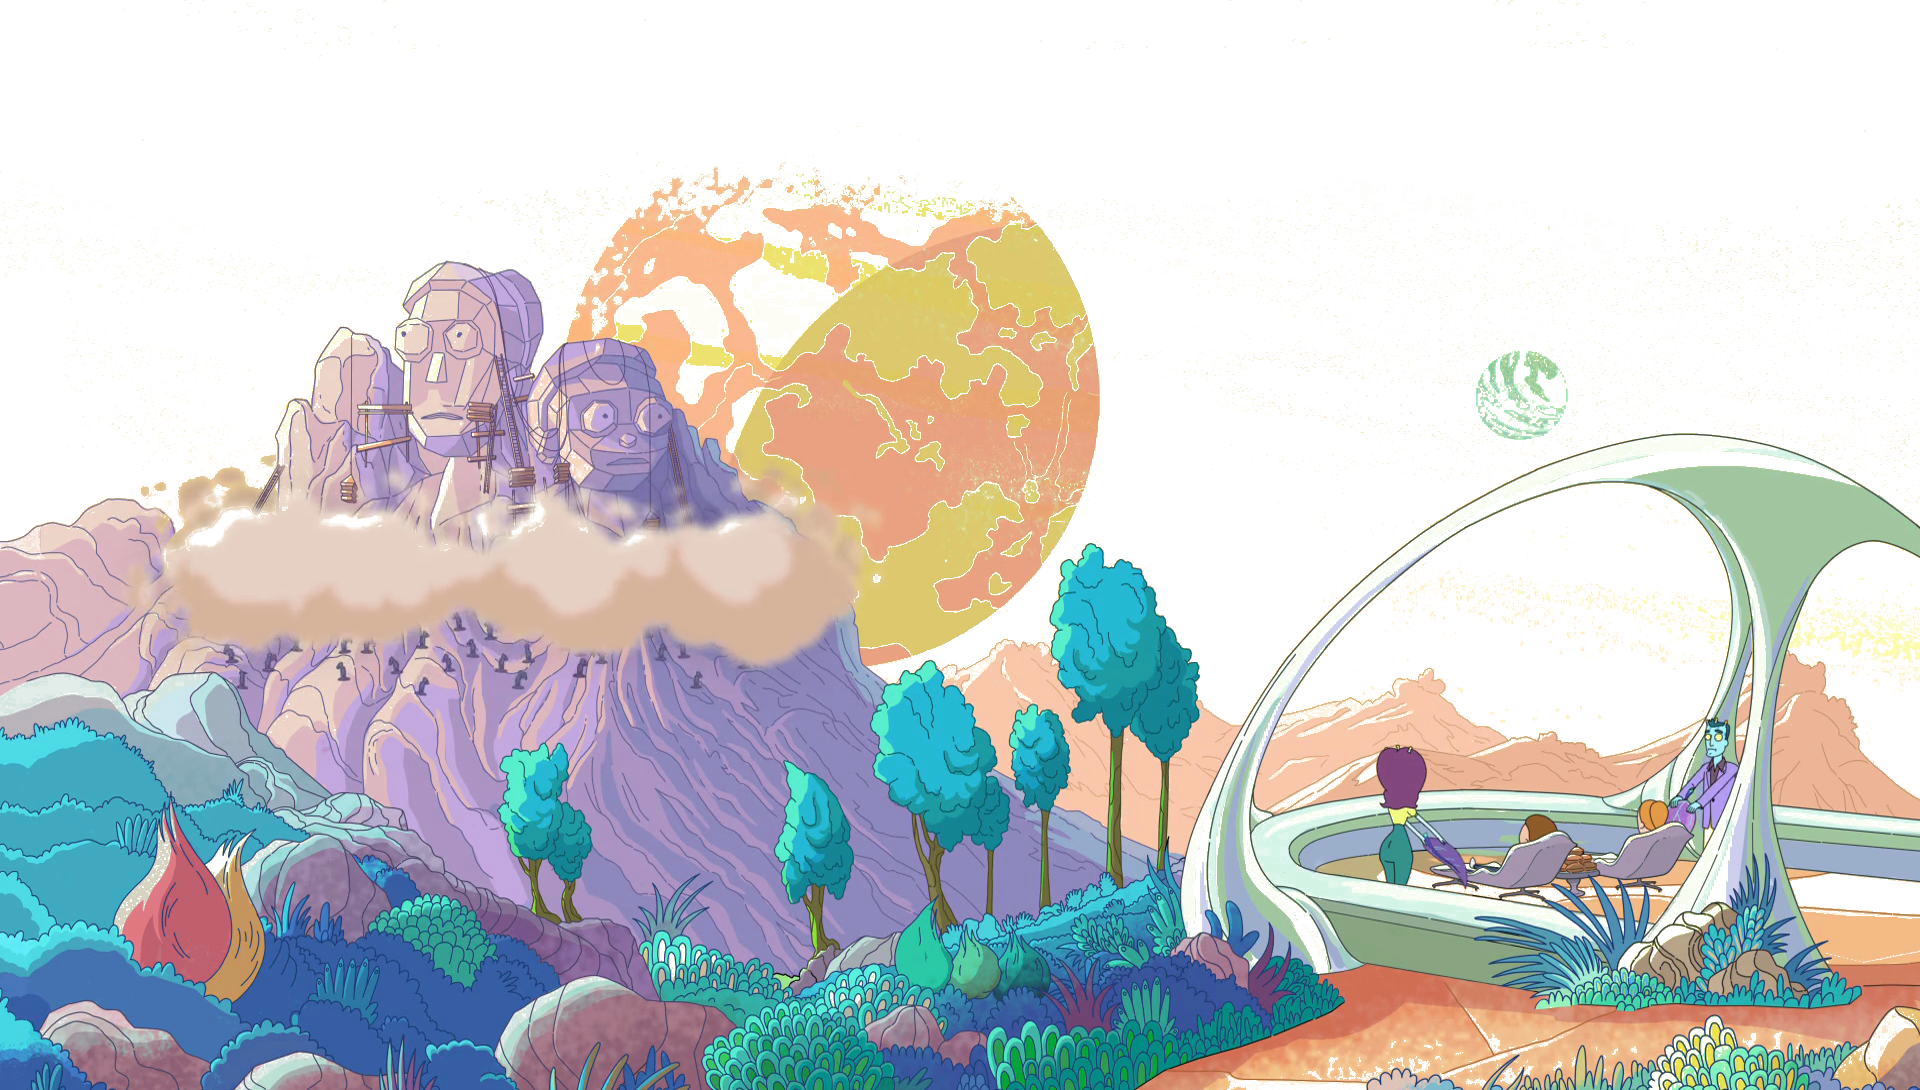
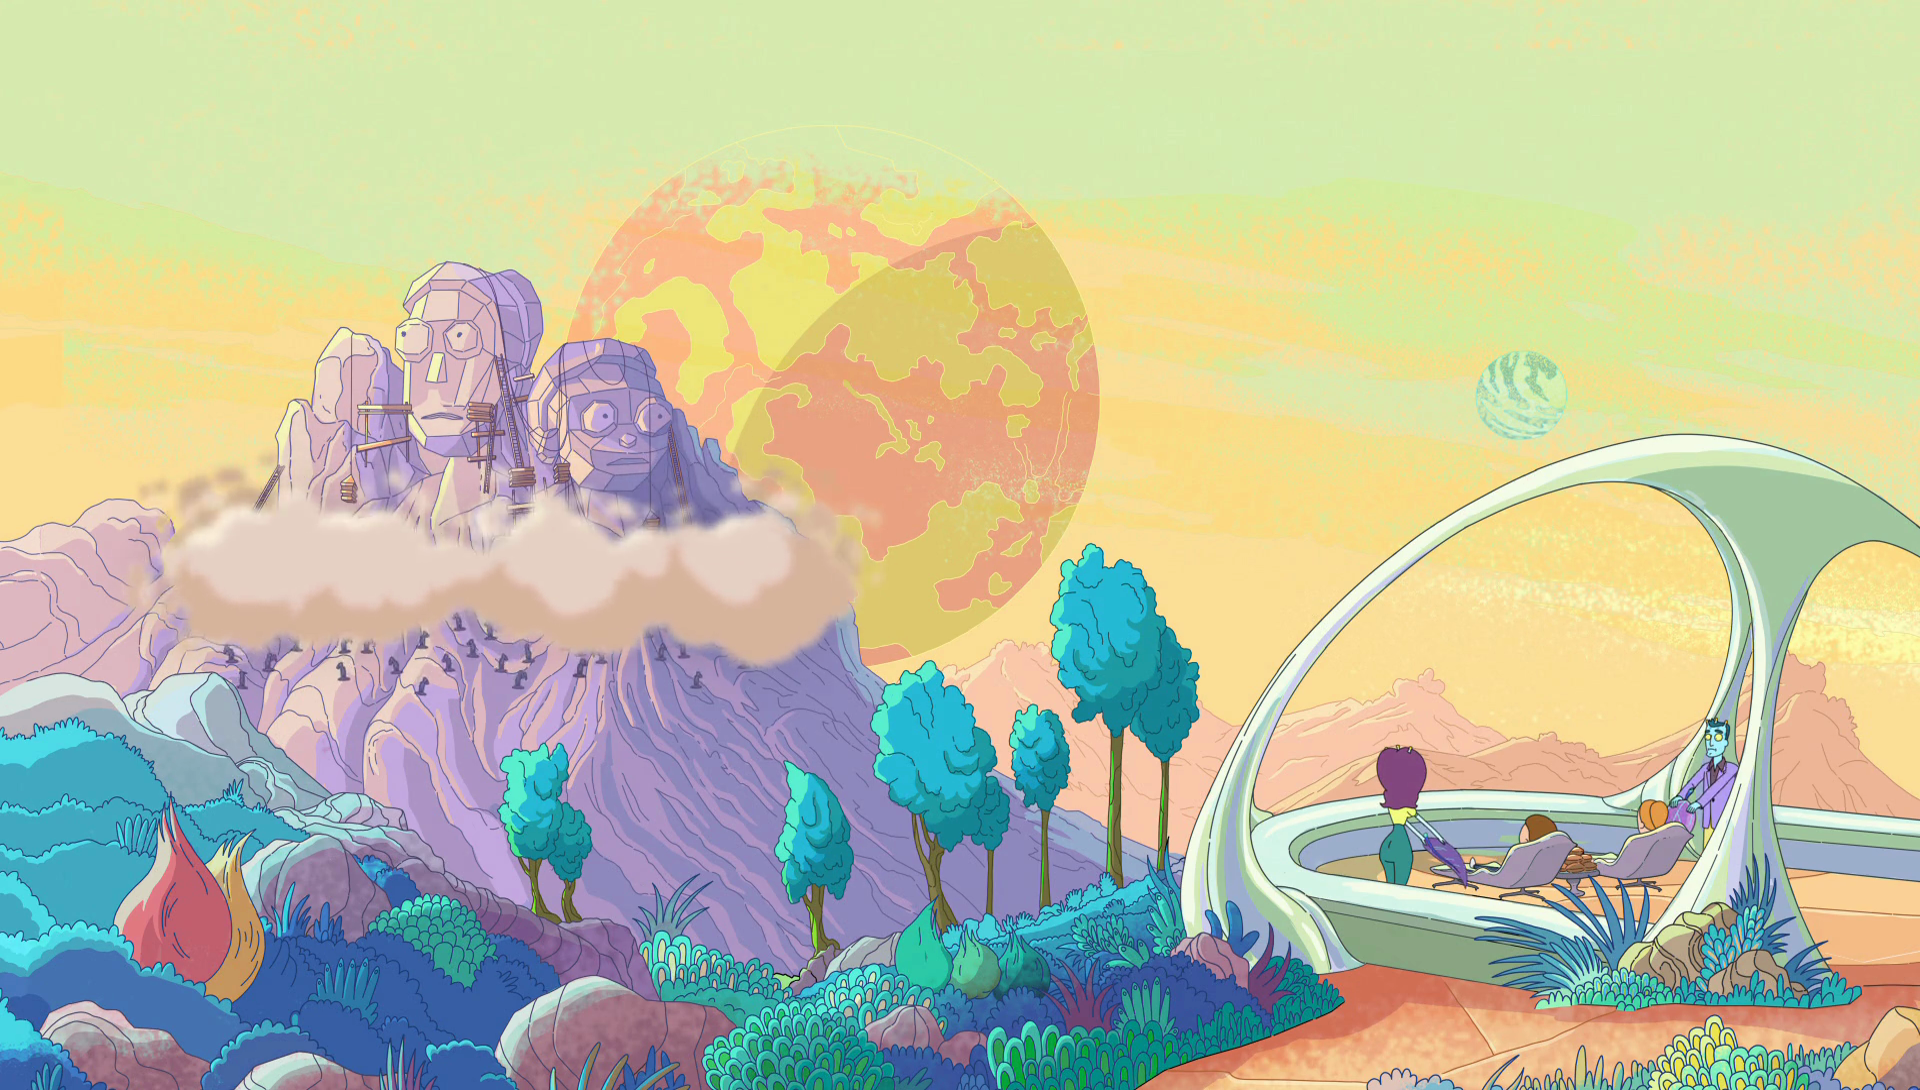
fix(changes): alterando tela inicial

diff --git a/src/components/Main.vue b/src/components/Main.vue
@@ -38,6 +38,9 @@ export default {
 
 <!-- Add "scoped" attribute to limit CSS to this component only -->
 <style scoped>
+
+@import url('https://fonts.googleapis.com/css2?family=Public+Sans:wght@100&display=swap');
+
 @font-face {
   font-family: "KuchenHollow";
   src: local("KuchenHollow"),
@@ -49,14 +52,16 @@ export default {
   padding: 15px 15px;
   align-self: flex-start;
   text-align: center;
-  font-family: "KuchenHollow";
 }
 
 .text > p {
-  font-size: 20px;
-  font-family: "Roboto";
-  font-style: italic;
-  font-weight: 100;
+  font-size: 3rem;
+  font-style: normal;
+  font-weight: 600;
+  font-family: 'Public Sans', sans-serif;
+  /* text-shadow: 0.15rem 0.15rem #fff ; */
+  background-color: #000;
+  padding: 1rem 2rem;
 }
 
 .text > h1 {
@@ -70,6 +75,12 @@ export default {
   justify-content: center;
   align-items: center;
   height: 100vh;
+  background-image: url('/assets/paisagem.png');
+  background-repeat: no-repeat;
+  background-attachment: absolute;
+  background-position: bottom; 
+  background-size: cover;
+  background-size: ;
 }
 
 .footer {
@@ -107,7 +118,7 @@ export default {
 }
 
 .content {
-  height: 25rem;
+  height: 35rem;
   display: flex;
   align-items: center;
   justify-content: space-around;

diff --git a/src/components/CharactersList.vue b/src/components/CharactersList.vue
@@ -217,5 +217,4 @@ li {
   width: 100%;
 }
 
-@import url('https://fonts.googleapis.com/css2?family=Public+Sans:wght@100&display=swap');
 </style>
